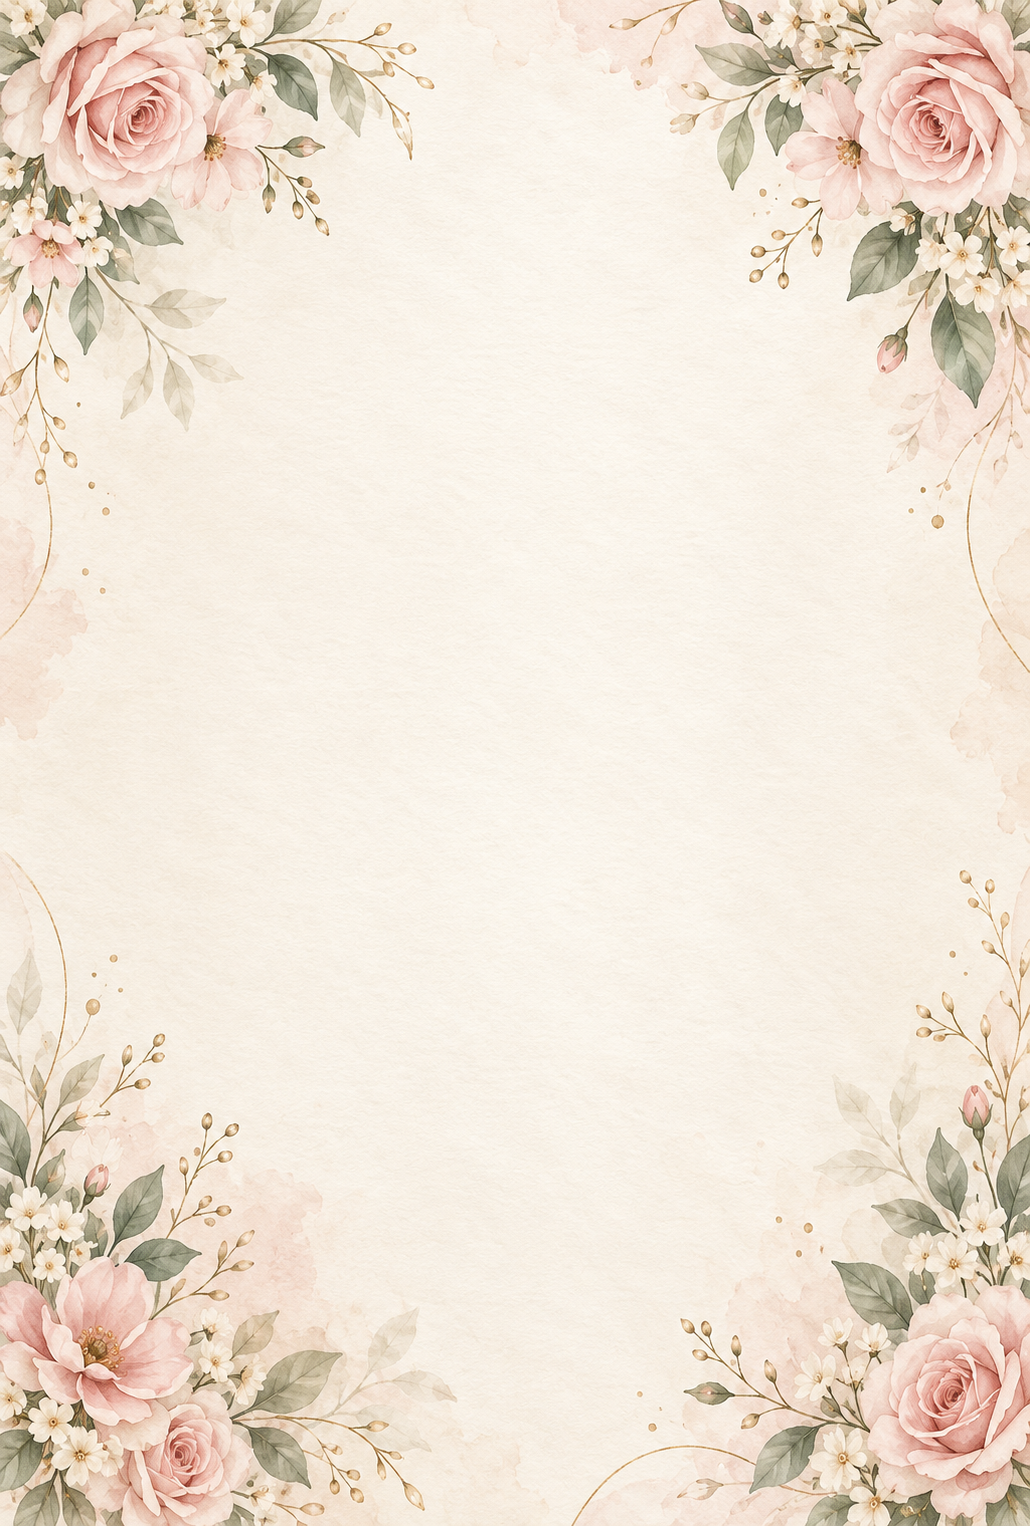
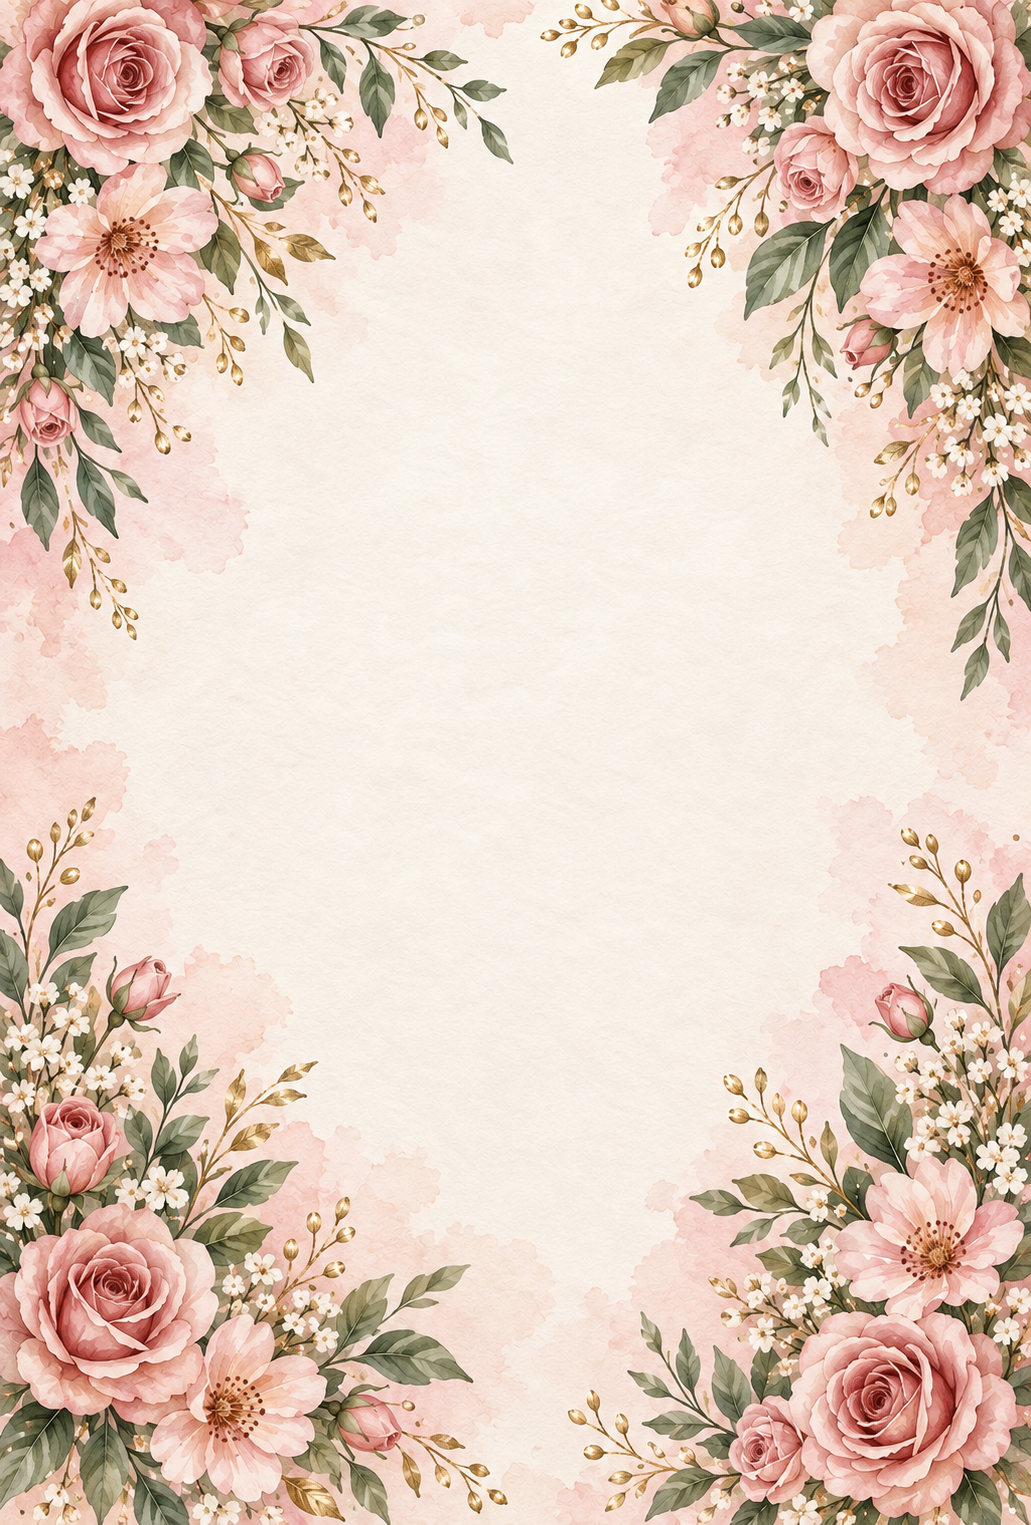
Add files via upload

diff --git a/guests.js b/guests.js
@@ -1,0 +1,250 @@
+const GUESTS = [
+  {
+    "slug": "anita",
+    "title": "Señora",
+    "name": "ANITA MARIA DEL CASTILLO",
+    "people": 1,
+    "observation": "",
+    "greeting": "Estimada señora"
+  },
+  {
+    "slug": "paola",
+    "title": "Señora",
+    "name": "PAOLA MEDRANO E HIJO",
+    "people": 2,
+    "observation": "Incluye acompañante menor",
+    "greeting": "Estimada señora"
+  },
+  {
+    "slug": "ximena",
+    "title": "Señora",
+    "name": "XIMENA MEDRANO",
+    "people": 1,
+    "observation": "",
+    "greeting": "Estimada señora"
+  },
+  {
+    "slug": "fabian",
+    "title": "Familia",
+    "name": "FABIAN MEDRANO",
+    "people": 4,
+    "observation": "",
+    "greeting": "Familia"
+  },
+  {
+    "slug": "danilo",
+    "title": "Familia",
+    "name": "DANILO SUÁREZ",
+    "people": 4,
+    "observation": "",
+    "greeting": "Familia"
+  },
+  {
+    "slug": "oswaldo",
+    "title": "Señor",
+    "name": "OSWALDO DEL CASTILLO",
+    "people": 1,
+    "observation": "",
+    "greeting": "Estimado señor"
+  },
+  {
+    "slug": "gabriela",
+    "title": "Señora",
+    "name": "GABRIELA DEL CASTILLO E HIJO",
+    "people": 2,
+    "observation": "Incluye acompañante menor",
+    "greeting": "Estimada señora"
+  },
+  {
+    "slug": "richard",
+    "title": "Señor y señora",
+    "name": "RICHARD DEL CASTILLO",
+    "people": 2,
+    "observation": "",
+    "greeting": "Estimados señor y señora"
+  },
+  {
+    "slug": "teresa",
+    "title": "Señora",
+    "name": "TERESA PEÑA E HIJO",
+    "people": 2,
+    "observation": "Incluye acompañante menor",
+    "greeting": "Estimada señora"
+  },
+  {
+    "slug": "roberto",
+    "title": "Familia",
+    "name": "ROBERTO DEL CASTILLO",
+    "people": 5,
+    "observation": "",
+    "greeting": "Familia"
+  },
+  {
+    "slug": "manuel",
+    "title": "Señor y señora",
+    "name": "MANUEL DEL CASTILLO",
+    "people": 2,
+    "observation": "",
+    "greeting": "Estimados señor y señora"
+  },
+  {
+    "slug": "paul",
+    "title": "Familia",
+    "name": "PAUL DEL CASTILLO",
+    "people": 5,
+    "observation": "",
+    "greeting": "Familia"
+  },
+  {
+    "slug": "jose",
+    "title": "Señor",
+    "name": "JOSÉ DEL CASTILLO E HIJO",
+    "people": 2,
+    "observation": "Incluye acompañante menor",
+    "greeting": "Estimado señor"
+  },
+  {
+    "slug": "gabriel",
+    "title": "Familia",
+    "name": "GABRIEL ROSERO",
+    "people": 3,
+    "observation": "",
+    "greeting": "Familia"
+  },
+  {
+    "slug": "marco",
+    "title": "Señor y señora",
+    "name": "MARCO NEGRETE",
+    "people": 2,
+    "observation": "",
+    "greeting": "Estimados señor y señora"
+  },
+  {
+    "slug": "alexander",
+    "title": "Señor y señora",
+    "name": "ALEXANDER PALMA Y JOHANA NEGRETE",
+    "people": 2,
+    "observation": "",
+    "greeting": "Estimados señor y señora"
+  },
+  {
+    "slug": "marcos",
+    "title": "Familia",
+    "name": "MARCOS ESTRELLA",
+    "people": 3,
+    "observation": "",
+    "greeting": "Familia"
+  },
+  {
+    "slug": "jose-luis",
+    "title": "Familia",
+    "name": "JOSE LUIS LARREATEGUI",
+    "people": 3,
+    "observation": "",
+    "greeting": "Familia"
+  },
+  {
+    "slug": "stefany",
+    "title": "Señora",
+    "name": "Stefany Pullupaxi E HIJO",
+    "people": 2,
+    "observation": "Incluye acompañante menor",
+    "greeting": "Estimada señora"
+  },
+  {
+    "slug": "carlos",
+    "title": "Señor",
+    "name": "CARLOS RON",
+    "people": 1,
+    "observation": "",
+    "greeting": "Estimado señor"
+  },
+  {
+    "slug": "diego",
+    "title": "Señor",
+    "name": "DIEGO RON",
+    "people": 1,
+    "observation": "",
+    "greeting": "Estimado señor"
+  },
+  {
+    "slug": "alexis",
+    "title": "Familia",
+    "name": "ALEXIS SOLORZANO",
+    "people": 3,
+    "observation": "",
+    "greeting": "Familia"
+  },
+  {
+    "slug": "didier",
+    "title": "Familia",
+    "name": "DIDIER LOGAÑA",
+    "people": 4,
+    "observation": "",
+    "greeting": "Familia"
+  },
+  {
+    "slug": "patricia",
+    "title": "Señora",
+    "name": "PATRICIA ALMEIDA E HIJA",
+    "people": 2,
+    "observation": "Incluye acompañante menor",
+    "greeting": "Estimada señora"
+  },
+  {
+    "slug": "oswaldo-santamaria",
+    "title": "Familia",
+    "name": "OSWALDO SANTAMARIA",
+    "people": 3,
+    "observation": "",
+    "greeting": "Familia"
+  },
+  {
+    "slug": "carlos-salguero",
+    "title": "Familia",
+    "name": "CARLOS SALGUERO",
+    "people": 5,
+    "observation": "",
+    "greeting": "Familia"
+  },
+  {
+    "slug": "liliana",
+    "title": "Señorita",
+    "name": "LILIANA PACHECO",
+    "people": 1,
+    "observation": "",
+    "greeting": "Estimada señorita"
+  },
+  {
+    "slug": "richard-cagua",
+    "title": "Señor",
+    "name": "RICHARD CAGUA",
+    "people": 1,
+    "observation": "",
+    "greeting": "Estimado señor"
+  },
+  {
+    "slug": "oscar",
+    "title": "Señor",
+    "name": "OSCAR ALCACIEGA",
+    "people": 1,
+    "observation": "",
+    "greeting": "Estimado señor"
+  },
+  {
+    "slug": "shina",
+    "title": "Señorita",
+    "name": "SHINA SEPA",
+    "people": 1,
+    "observation": "",
+    "greeting": "Estimada señorita"
+  },
+  {
+    "slug": "santiago",
+    "title": "Señor y señora",
+    "name": "SANTIAGO ARGUELLO",
+    "people": 2,
+    "observation": "",
+    "greeting": "Estimados señor y señora"
+  }
+];

diff --git a/script.js b/script.js
@@ -1,27 +1,27 @@
 const params = new URLSearchParams(window.location.search);
+const pathParts = window.location.pathname.split('/').filter(Boolean);
+const repoIndex = pathParts.findIndex(part => part.toLowerCase() === 'bautizovicky');
+const pathSlug = repoIndex >= 0 ? (pathParts[repoIndex + 1] || '').toLowerCase() : '';
+const guestSlug = (params.get('guest') || pathSlug).toLowerCase().trim();
+const guest = (window.GUESTS || []).find(g => g.slug.toLowerCase() === guestSlug) || null;
 
-const recipientName = (params.get('name') || 'NOMBRE APELLIDO').trim();
-const gender = (params.get('gender') || '').toLowerCase().trim();
-const explicitTitle = (params.get('title') || '').toLowerCase().trim();
+const recipientName = (params.get('name') || guest?.name || 'NOMBRE APELLIDO').trim();
+const explicitTitle = (params.get('title') || guest?.title || '').toLowerCase().trim();
 
-let greeting = 'Estimado señor/a';
-if (explicitTitle) {
-  const map = {
-    'señor':'Estimado señor', 'senor':'Estimado señor',
-    'señora':'Estimada señora', 'senora':'Estimada señora',
-    'señorita':'Estimada señorita', 'senorita':'Estimada señorita'
-  };
-  greeting = map[explicitTitle] || explicitTitle;
-} else if (gender === 'hombre' || gender === 'm' || gender === 'masculino') {
-  greeting = 'Estimado señor';
-} else if (gender === 'mujer' || gender === 'f' || gender === 'femenino') {
-  greeting = 'Estimada señora';
-}
+const greetingMap = {
+  'señor': 'Estimado señor', 'senor': 'Estimado señor',
+  'señora': 'Estimada señora', 'senora': 'Estimada señora',
+  'señorita': 'Estimada señorita', 'senorita': 'Estimada señorita',
+  'señor y señora': 'Estimados señor y señora',
+  'familia': 'Familia'
+};
+const greeting = greetingMap[explicitTitle] || guest?.greeting || 'Estimado señor/a';
 
 document.getElementById('greeting').textContent = greeting;
 document.getElementById('recipientName').textContent = recipientName;
 
-document.getElementById('openInvite').addEventListener('click', () => {
+const openInvite = document.getElementById('openInvite');
+openInvite.addEventListener('click', () => {
   const opening = document.getElementById('opening');
   const page = document.getElementById('page');
   opening.classList.add('opening--closing');
@@ -43,5 +43,4 @@ const observer = new IntersectionObserver((entries) => {
     if (entry.isIntersecting) entry.target.classList.add('visible');
   });
 }, { threshold: 0.12 });
-
 document.querySelectorAll('.reveal').forEach(el => observer.observe(el));

diff --git a/styles.css b/styles.css
@@ -75,3 +75,17 @@ a{text-decoration:none;color:inherit}
 .opening__greeting,.opening__recipient-name{display:block;position:relative;}
 .opening__recipient-name{margin-top:0;}
 @media(max-width:420px){.opening__recipient{gap:8px;}}
+
+
+/* V9 — guest personalization */
+.opening__greeting { margin-bottom: 0.35rem; }
+.opening__recipient-name {
+  font-family: 'Parisienne', cursive;
+  font-size: clamp(3.2rem, 8vw, 5.6rem);
+  line-height: 0.98;
+  color: #5b4a45;
+  white-space: normal;
+}
+@media (max-width: 640px) {
+  .opening__recipient-name { font-size: clamp(2.7rem, 12vw, 4.2rem); }
+}

diff --git a/404.html b/404.html
@@ -139,7 +139,6 @@
     </section>
   </div>
 
-  <script src="/bautizovicky/guests.js"></script>
   <script src="/bautizovicky/script.js"></script>
 </body>
 </html>
